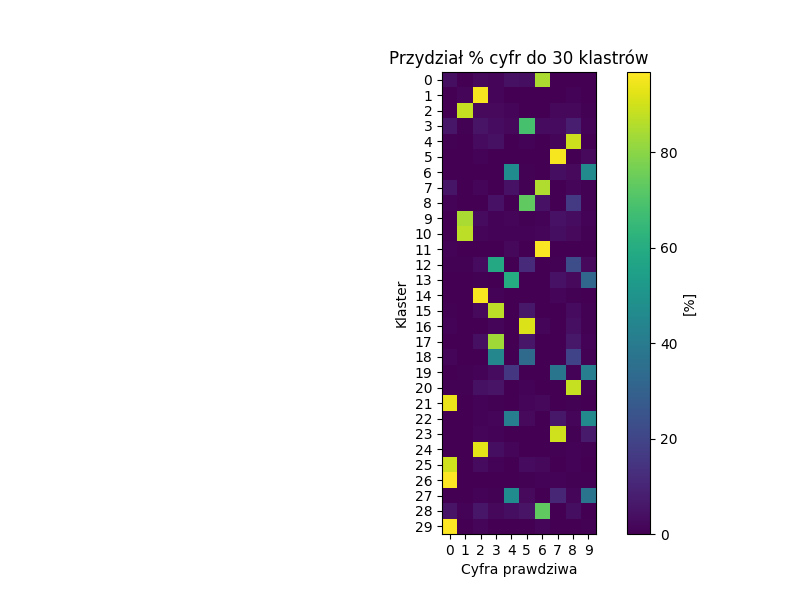
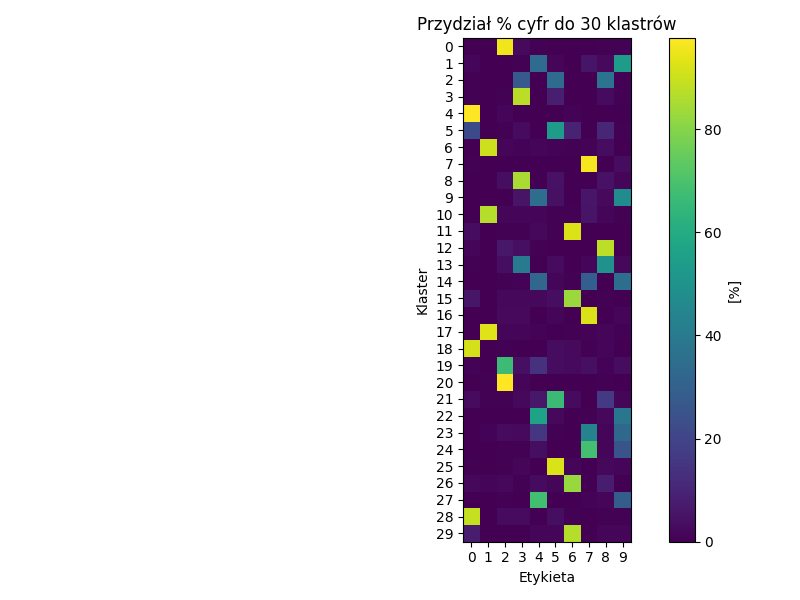
si/l/l4/1 final

Changed region(s): [[0.4688, 0.03, 0.9062, 0.99], [0.9062, 0.48, 0.9375, 0.51]]

diff --git a/sem4/si/lista4/zadanie1/kmeans.py b/sem4/si/lista4/zadanie1/kmeans.py
@@ -6,90 +6,120 @@ import matplotlib.pyplot as plt
 from sklearn.datasets import fetch_openml
 from sklearn.model_selection import train_test_split
 
-def load_mnist(n_samples=5000, random_state=42):
+# ładowanie danych i normalizacja
+def load_data(n_samples=5000, random_state=42):
     X, y = fetch_openml('mnist_784', version=1, return_X_y=True, as_frame=False)
     X = X.astype(np.float32) / 255.0
     y = y.astype(int)
     return train_test_split(X, y, train_size=n_samples, stratify=y, random_state=random_state)
 
-def initialize_centroids(X, k, random_state):
+# inicjalizacja centroidów (wybor losowych)
+def initialize_centroids(X, c, random_state):
     rng = np.random.RandomState(random_state)
-    n_samples, _ = X.shape
-    centroids = np.empty((k, X.shape[1]), dtype=X.dtype)
-    centroids[0] = X[rng.randint(n_samples)]
-    dist = np.full(n_samples, np.inf)
-    for i in range(1, k):
-        dist = np.minimum(dist, np.sum((X - centroids[i-1])**2, axis=1))
-        probs = dist / dist.sum()
-        cumprobs = np.cumsum(probs)
-        r = rng.rand()
-        idx = np.searchsorted(cumprobs, r)
-        centroids[i] = X[idx]
+    n_samples = X.shape[0]
+    indices = rng.choice(n_samples, size=c, replace=False)
+    centroids = X[indices].copy()
     return centroids
 
-def kmeans(X, k, max_iter=100, tol=1e-4, random_state=None):
-    centroids = initialize_centroids(X, k, random_state)
+# główny algorytm
+def kmeans(X, c, max_iter=100, tol=1e-4, random_state=None):
+    centroids = initialize_centroids(X, c, random_state)
+
     for it in range(max_iter):
-        dists = np.linalg.norm(X[:, None] - centroids[None, :], axis=2)
-        labels = np.argmin(dists, axis=1)
-        new_centroids = np.array([X[labels==i].mean(axis=0) if np.any(labels==i) else centroids[i]
-                                  for i in range(k)])
+        # odległość każdego punktu od każdego centroidu (wymiar: |X|*c)
+        distances = np.linalg.norm(X[:, None] - centroids[None, :], axis=2)
+
+        # przypisanie każdemu punktowi etykiety najbliższego centroidu
+        labels = np.argmin(distances, axis=1)
+
+        # aktualizacja centroidów - średnia punktów przypisanych do klastra (lub bez zmian jeśli pusty)
+        new_centroids = np.array([
+            X[labels==i].mean(axis=0) 
+            if np.any(labels==i) 
+            else centroids[i]
+
+            for i in range(c)
+        ])
+
         shift = np.linalg.norm(new_centroids - centroids, axis=1).sum()
         centroids = new_centroids
+
         if shift < tol:
             break
+
     inertia = np.sum((X - centroids[labels])**2)
+
     return centroids, labels, inertia
 
-def plot_assignment_matrix(labels, true_labels, k, out_dir):
-    mat = np.zeros((k, 10), dtype=int)
-    for i in range(k):
+# wyświetlenie macierzy przydziału
+def plot_assignment_matrix(labels, true_labels, c, out_dir):
+    mat = np.zeros((c, 10), dtype=int)
+
+    for i in range(c):
         counts = np.bincount(true_labels[labels==i], minlength=10)
         mat[i] = counts
+
     mat_perc = (mat.T / mat.sum(axis=1)).T * 100
+
     plt.figure(figsize=(8,6))
     plt.imshow(mat_perc, interpolation='nearest', cmap='viridis')
     plt.colorbar(label='[%]')
-    plt.xlabel('Cyfra prawdziwa')
+    plt.xlabel('Etykieta')
     plt.ylabel('Klaster')
-    plt.title(f'Przydział % cyfr do {k} klastrów')
+    plt.title(f'Przydział % cyfr do {c} klastrów')
     plt.xticks(range(10))
-    plt.yticks(range(k))
-    fname = os.path.join(out_dir, f'assignment_{k}.png')
-    plt.savefig(fname)
+    plt.yticks(range(c))
+    plt.tight_layout()
+    plt.savefig(os.path.join(out_dir, f'assignment_{c}.png'))
     plt.close()
-    print(f'[OK] Macierz przydziału zapisana: {fname}')
 
-def plot_centroids(centroids, k, out_dir):
+# wyświetlanie centroidów
+def plot_centroids(centroids, c, out_dir):
     n_cols = 5
-    n_rows = int(np.ceil(k / n_cols))
-    plt.figure(figsize=(n_cols*2, n_rows*2))
-    for i, c in enumerate(centroids):
-        ax = plt.subplot(n_rows, n_cols, i+1)
-        ax.imshow(c.reshape(28,28), cmap='gray')
-        ax.axis('off')
-        ax.set_title(f'Clust {i}')
-    plt.suptitle(f'Centroidy dla k={k}')
-    fname = os.path.join(out_dir, f'centroids_{k}.png')
-    plt.savefig(fname)
-    plt.close()
-    print(f'[OK] Centroidy zapisane: {fname}')
+    n_rows = int(np.ceil(c / n_cols))
 
-def run_experiments(X, y, ks=[10,15,20,30], n_init=5, out_dir='results'):
-    os.makedirs(out_dir, exist_ok=True)
-    for k in ks:
+    plt.figure(figsize=(n_cols*2, n_rows*2))
+
+    for i, centroid in enumerate(centroids):
+        ax = plt.subplot(n_rows, n_cols, i+1)
+        ax.imshow(centroid.reshape(28,28), cmap='gray')
+        ax.axis('off')
+        ax.set_title(f'Cluster {i}')
+
+    plt.suptitle(f'Centroidy dla {c} klastrów')
+    plt.tight_layout()
+    plt.savefig(os.path.join(out_dir, f'centroids_{c}.png'))
+    plt.close()
+
+# główna pętla programu
+def run_experiments(X, y, clusters=[10,15,20,30], reps=5, out_dir='results'):
+    os.makedirs(out_dir, exist_ok=True) # folder na wyniki
+
+    for c in clusters:
         best = None
-        for init in range(n_init):
-            cent, lab, inertia = kmeans(X, k, max_iter=1000, random_state=init)
+
+        # wykonujemy reps powtórzeń, wybieramy z nich najmniejszą inercję
+        for init in range(reps):
+            # algorytm z różnymi ziarnami
+            centroids, labels, inertia = kmeans(X, c, max_iter=100, random_state=init)
             if best is None or inertia < best['inertia']:
-                best = {'cent': cent, 'lab': lab, 'inertia': inertia, 'init': init}
-        print(f'>>> k={k}: najlepsza inercja={best["inertia"]:.2f} (init={best["init"]})')
-        plot_assignment_matrix(best['lab'], y, k, out_dir)
-        plot_centroids(best['cent'], k, out_dir)
+                best = {'centroids': centroids, 'labels': labels, 'inertia': inertia, 'init': init}
+
+        print(f'-> ilość klastrów = {c}: najlepsza inercja = {best["inertia"]:.2f} (init = {best["init"]})')
+
+        # macierz przydziału
+        plot_assignment_matrix(best['labels'], y, c, out_dir)
+        print('(Zapisano macierz przydziału)')
+
+        # wyświetlanie centroidow
+        plot_centroids(best['centroids'], c, out_dir)
+        print('(Zapisano grafikę z centroidami)')
 
 if __name__ == '__main__':
-    print('1) Ładowanie danych…')
-    X_train, X_test, y_train, y_test = load_mnist(20000)
-    print('2) Uruchamiam k-means dla różnych k…')
+    print('Ładowanie danych...')
+    X_train, X_test, y_train, y_test = load_data()
+    print('Dane załadowane.\n')
+
+    print('Uruchomienie algorytmu.')
     run_experiments(X_train, y_train)
-    print('Gotowe! Wyniki w katalogu "results".')
+    print('Algorytm zakończony, wyniki w results.')
